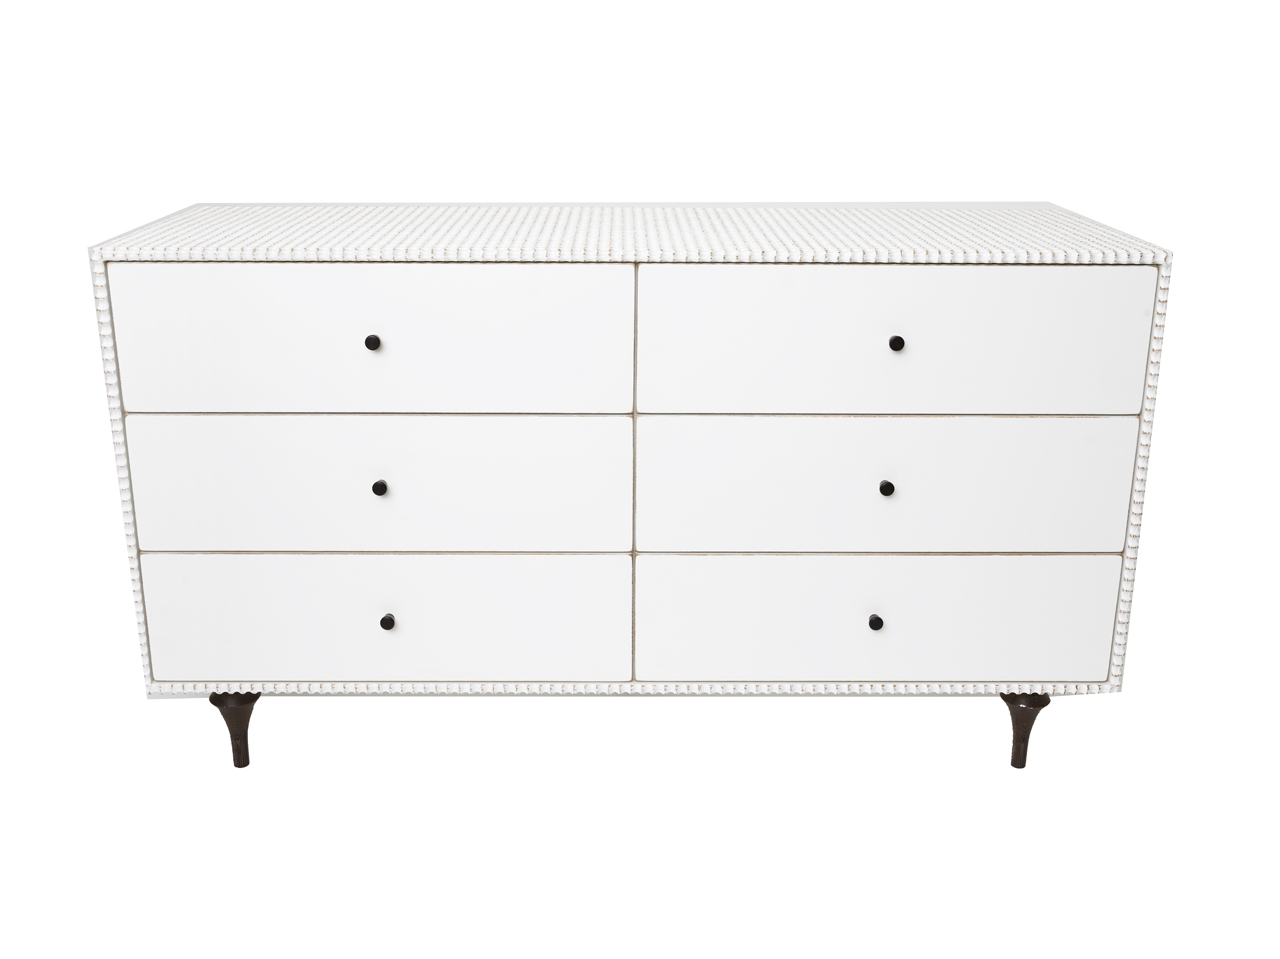
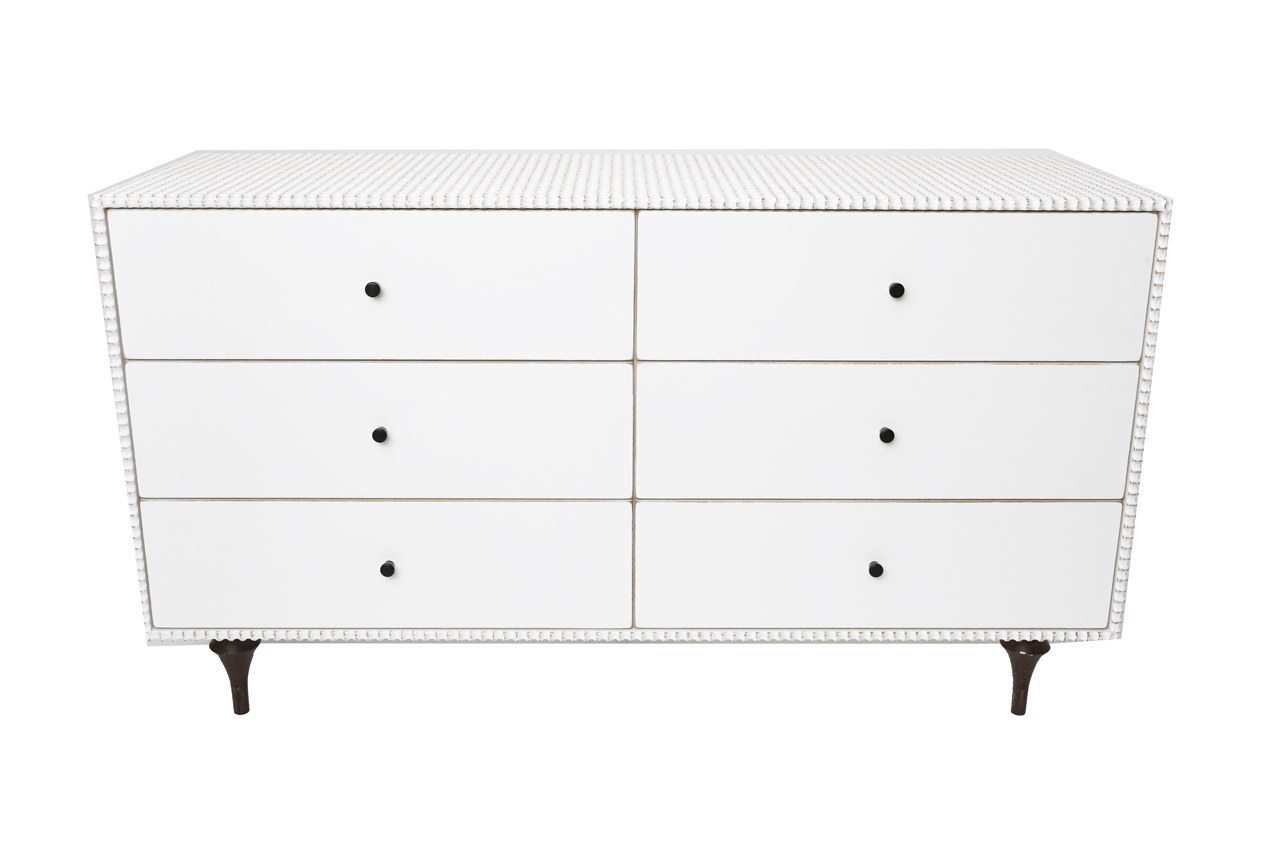
cropped some images to be more consistent

diff --git a/js/script.js b/js/script.js
@@ -9,11 +9,11 @@ var Main = function ($scope) {
   ];
   $scope.portfolio = [
       {
-        title: 'Gabriel', description: 'Polished steel desk with solid wood drawer. Custom hand grinding creates a warm silver/bronze color and feels as smooth as silk. 48" wide by 27" deep by 30" high. Custom sizes and finishes available.', 
+        title: 'Gabriel Desk', description: 'Polished steel desk with solid wood drawer. Custom hand grinding creates a warm silver/bronze color and feels as smooth as silk. 48" wide by 27" deep by 30" high. Custom sizes and finishes available.', 
         images: ['/images/portfolio/gabriel-1.jpg','/images/portfolio/gabriel-2.jpg','/images/portfolio/gabriel-3.jpg']
       }
     , {
-        title: 'Gabrielle', description: 'Polished steel console with solid wood drawer. Custom hand grinding ensures a unique finish that has a warm silver/bronze color and feels as smooth as silk. 48" wide by 12" deep by 32" high. Custom sizes and finishes available.', 
+        title: 'Gabrielle Console', description: 'Polished steel console with solid wood drawer. Custom hand grinding ensures a unique finish that has a warm silver/bronze color and feels as smooth as silk. 48" wide by 12" deep by 32" high. Custom sizes and finishes available.', 
         images: ['/images/portfolio/gabrielle-1.jpg','/images/portfolio/gabrielle-2.jpg']
       }
     , {
@@ -21,43 +21,23 @@ var Main = function ($scope) {
         images: ['/images/portfolio/gabrielle_demi_lune-1.jpg','/images/portfolio/gabrielle_demi_lune-2.jpg','/images/portfolio/gabrielle_demi_lune-3.jpg']
       }
     , {
-        title: 'Marie', description: 'Hand carved white oak side-table with a Ceruse paint finish. Wnge legs are turned to look like stilettos. Drawers on soft close runners. 30" wide by 20" deep by 24" high. Custom sizes and finishes available.', 
-        images: ['/images/portfolio/marie-1.jpg','/images/portfolio/marie-2.jpg','/images/portfolio/marie-3.jpg']
-      }
-    , {
-        title: 'Bertrand', description: 'Hand carved white oak desk with paint finish. The top if the desk and inside the drawer are covered with matching leather. 48" wide by 27" deep by 30" high. Custom sizes and finishes available upon request.', 
+        title: 'Bertrand Desk', description: 'Hand carved white oak desk with paint finish. The top if the desk and inside the drawer are covered with matching leather. 48" wide by 27" deep by 30" high. Custom sizes and finishes available upon request.', 
         images: ['/images/portfolio/bertrand-1.jpg','/images/portfolio/bertrand-2.jpg','/images/portfolio/bertrand-3.jpg']
-      }
-    , {
-        title: 'Leon', description: 'White oak chest of drawers with a polished steel case. The drawers have and undermount soft close system that works silently and effortlessly. 65" wide by 20" deep by 32.5" high. Custom sizes and finishes available upon request.', 
-        images: ['/images/portfolio/leon-1.jpg','/images/portfolio/leon-2.jpg','/images/portfolio/leon-3.jpg']
-      }
-    , {
-        title: 'Lily', description: 'Quartersawn Zebrawood side-table with hand turned legs. The top of this piece has diamond cut veneer and a solid wood drawer with soft close runners. 48" wide by 27" deep by 30" high. Custom sizes and finishes available.', 
-        images: ['/images/portfolio/lily-1.jpg','/images/portfolio/lily-2.jpg','/images/portfolio/lily-3.jpg']
-      }
-    , {
-        title: 'Masada', description: 'Walnut day bed with built-in drawers. 83" wide by 42" deep by 38.5" high. Custom sizes and finishes available upon request.', 
-        images: ['/images/portfolio/masada.jpg']
-      }
-    , {
-        title: 'Simon', description: 'African mahogany desk with raw steel legs and soft-closing drawers. 60" wide by 22" deep and 29" high. Custom sizes and finishes available upon request.', 
-        images: ['/images/portfolio/simon-1.jpg','/images/portfolio/simon-2.jpg','/images/portfolio/simon-3.jpg']
-      }
-    , {
-        title: 'Gaspar Armoire', description: 'Armoir with wenge wood exterior and white oak interior. Blackened steel base and custom steel handles. 46" wide by 24" deep by 88" high. Custom sizes and finishes available.', 
-        images: ['/images/portfolio/gaspar-1.jpg','/images/portfolio/gaspar-2.jpg','/images/portfolio/gaspar-3.jpg']
-      }
-    , {
-        title: 'Hannah Side Table', description: '', 
-        images: ['/images/portfolio/hannah-1.jpg','/images/portfolio/hannah-2.jpg']
       }
     , {
         title: 'Luma Console', description: '', 
         images: ['/images/portfolio/luma-1.jpg','/images/portfolio/luma-2.jpg','/images/portfolio/luma-3.jpg']
       }
     , {
-        title: 'Marie Cecile', description: '', 
+        title: 'Marie Side Table', description: 'Hand carved white oak side-table with a Ceruse paint finish. Wnge legs are turned to look like stilettos. Drawers on soft close runners. 30" wide by 20" deep by 24" high. Custom sizes and finishes available.', 
+        images: ['/images/portfolio/marie-1.jpg','/images/portfolio/marie-2.jpg','/images/portfolio/marie-3.jpg']
+      }
+    , {
+        title: 'Marie Side Table (single drawer)', description: '', 
+        images: ['/images/portfolio/marie-revision-1.jpg','/images/portfolio/marie-revision-2.jpg','/images/portfolio/marie-revision-3.jpg']
+      }
+    , {
+        title: 'Marie-Cécile Side Table', description: '', 
         images: ['/images/portfolio/marie-cecile-1.jpg','/images/portfolio/marie-cecile-2.jpg']
       }
     , {
@@ -65,12 +45,32 @@ var Main = function ($scope) {
         images: ['/images/portfolio/marie-chest-1.jpg','/images/portfolio/marie-chest-2.jpg','/images/portfolio/marie-chest-3.jpg']
       }
     , {
-        title: 'Marie Noir', description: '', 
+        title: 'Marie Noire Console', description: '', 
         images: ['/images/portfolio/marie-noir-1.jpg','/images/portfolio/marie-noir-2.jpg','/images/portfolio/marie-noir-3.jpg']
       }
     , {
-        title: 'Marie Revision', description: '', 
-        images: ['/images/portfolio/marie-revision-1.jpg','/images/portfolio/marie-revision-2.jpg','/images/portfolio/marie-revision-3.jpg']
+        title: 'Léon Chest', description: 'White oak chest of drawers with a polished steel case. The drawers have and undermount soft close system that works silently and effortlessly. 65" wide by 20" deep by 32.5" high. Custom sizes and finishes available upon request.', 
+        images: ['/images/portfolio/leon-1.jpg','/images/portfolio/leon-2.jpg','/images/portfolio/leon-3.jpg']
+      }
+    , {
+        title: 'Lily Side Table', description: 'Quartersawn Zebrawood side-table with hand turned legs. The top of this piece has diamond cut veneer and a solid wood drawer with soft close runners. 48" wide by 27" deep by 30" high. Custom sizes and finishes available.', 
+        images: ['/images/portfolio/lily-1.jpg','/images/portfolio/lily-2.jpg','/images/portfolio/lily-3.jpg']
+      }
+    , {
+        title: 'Simon Desk', description: 'African mahogany desk with raw steel legs and soft-closing drawers. 60" wide by 22" deep and 29" high. Custom sizes and finishes available upon request.', 
+        images: ['/images/portfolio/simon-1.jpg','/images/portfolio/simon-2.jpg','/images/portfolio/simon-3.jpg']
+      }
+    , {
+        title: 'HannaH Side Table', description: '', 
+        images: ['/images/portfolio/hannah-1.jpg','/images/portfolio/hannah-2.jpg']
+      }
+    , {
+        title: 'Gaspar Armoire', description: 'Armoir with wenge wood exterior and white oak interior. Blackened steel base and custom steel handles. 46" wide by 24" deep by 88" high. Custom sizes and finishes available.', 
+        images: ['/images/portfolio/gaspar-1.jpg','/images/portfolio/gaspar-2.jpg','/images/portfolio/gaspar-3.jpg']
+      }
+    , {
+        title: 'Massada Daybed', description: 'Walnut day bed with built-in drawers. 83" wide by 42" deep by 38.5" high. Custom sizes and finishes available upon request.', 
+        images: ['/images/portfolio/masada.jpg']
       }
   ];
   $scope.commissions = [

diff --git a/css/styles.css b/css/styles.css
@@ -10,4 +10,4 @@ html{font-family:sans-serif;-webkit-text-size-adjust:100%;-ms-text-size-adjust:1
 .contact{max-width:500px;position:relative;margin:auto}.oldie .contact{width:500px}.contact-image{text-align:center}@media screen and (min-width: 600px){.contact-image{position:absolute;bottom:0;left:0}}
 .contact-info{color:#492f92;text-align:center;font-size:14px;font-size:1.4rem;line-height:1.5}@media screen and (min-width: 600px){.contact-info{padding-left:270px}}
 .portfolio{color:#492f92}.gallery-item{position:relative;background:#FFF}@media screen and (min-width: 800px){.has-padding{padding-right:120px}.has-padding .photo{padding-bottom:63%}}
-.views{height:100px}@media screen and (min-width: 800px){.views{height:auto;width:100px;position:absolute;top:0;right:0}}.views .column{width:25%;float:left}@media screen and (min-width: 800px){.views .column{width:auto;float:none}}.views .photo{padding-bottom:100%;cursor:pointer}.carousel-indicators{display:none}.carousel-control{text-shadow:none;font-size:36px;font-size:3.6rem;line-height:1;color:#492f92;cursor:pointer;bottom:auto;height:36px;width:36px;display:block;top:100px}@media screen and (min-width: 800px){.carousel-control{margin-top:-18px;top:50%}}.carousel-control.left{background:transparent;left:0}@media screen and (min-width: 800px){.carousel-control.left{left:-40px}}.carousel-control.right{background:transparent;right:0}@media screen and (min-width: 800px){.carousel-control.right{right:-40px}}.carousel-control:hover{opacity:1;color:#492f92}.press{color:#492f92}.press-image{margin-bottom:20px}
+.views{height:100px}@media screen and (min-width: 800px){.views{height:auto;width:100px;position:absolute;top:0;right:0}}.views .column{width:25%;float:left}@media screen and (min-width: 800px){.views .column{width:auto;float:none}}.views .photo{padding-bottom:100%;cursor:pointer}.carousel-indicators{display:none}.carousel-control{text-shadow:none;font-size:36px;font-size:3.6rem;line-height:1;color:#492f92;cursor:pointer;bottom:auto;height:36px;width:36px;display:block;top:100px}@media screen and (min-width: 800px){.carousel-control{top:170px}}.carousel-control.left{background:transparent;left:0}@media screen and (min-width: 800px){.carousel-control.left{left:-40px}}.carousel-control.right{background:transparent;right:0}@media screen and (min-width: 800px){.carousel-control.right{right:-40px}}.carousel-control:hover{opacity:1;color:#492f92}.press{color:#492f92}.press-image{margin-bottom:20px}

diff --git a/sass/_subpages.scss b/sass/_subpages.scss
@@ -116,8 +116,7 @@
   display: block; 
   top: 100px;
   @include above-width(800px) {
-    margin-top: -18px;
-    top: 50%;
+    top: 170px;
   }
   &.left {
     background: transparent;
